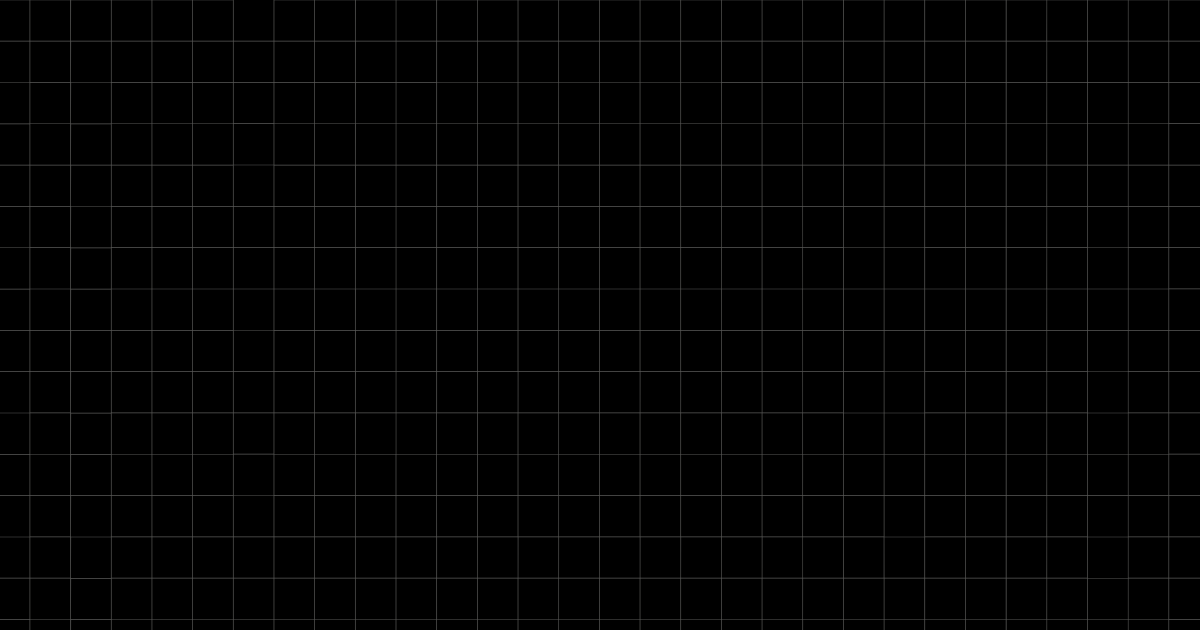
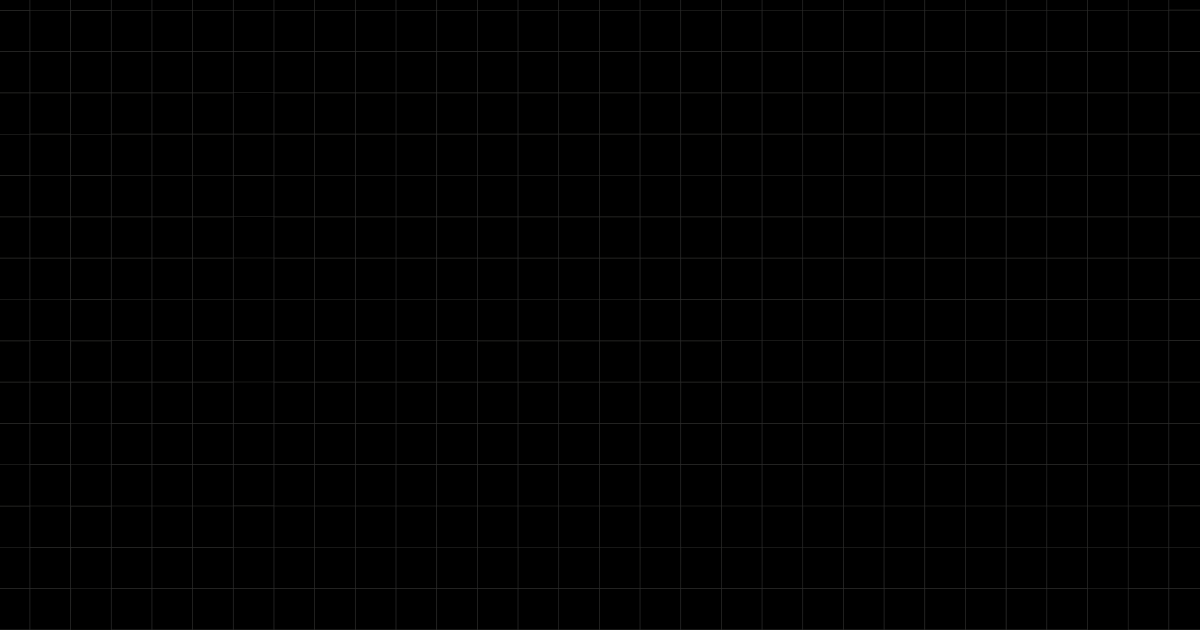
Changesnf

diff --git a/src/ContactSupport.js b/src/ContactSupport.js
@@ -33,51 +33,48 @@ const ContactSupport = () => {
 
       {/* SVG Animation Section */}
       <section className="svg-animation">
-        <svg xmlns="http://www.w3.org/2000/svg" viewBox="0 0 400 300">
-          <defs>
+    <svg xmlns="http://www.w3.org/2000/svg" viewBox="0 0 400 300">
+        <defs>
             <linearGradient id="grad1" x1="0%" y1="0%" x2="100%" y2="100%">
-              <stop offset="0%" style={{ stopColor: '#00ffcc', stopOpacity: 1 }} />
-              <stop offset="100%" style={{ stopColor: '#00cc99', stopOpacity: 1 }} />
+                <stop offset="0%" style={{ stopColor: '#ffffff', stopOpacity: 0.8 }} />
+                <stop offset="100%" style={{ stopColor: '#ffffff', stopOpacity: 0.3 }} />
             </linearGradient>
-          </defs>
-          
-          {/* Background */}
-          <rect width="400" height="300" fill="#000000" />
-          
-          {/* Abstract shapes */}
-          <circle cx="200" cy="150" r="100" fill="none" stroke="url(#grad1)" strokeWidth="4">
+        </defs>
+    
+        {/* Abstract shapes */}
+        <circle cx="200" cy="150" r="100" fill="none" stroke="url(#grad1)" strokeWidth="4">
             <animate attributeName="r" values="100;110;100" dur="4s" repeatCount="indefinite" />
-          </circle>
-          
-          <path d="M200,50 Q230,150 200,250 T200,50" fill="none" stroke="#00ffcc" strokeWidth="3">
+        </circle>
+        
+        <path d="M200,50 Q230,150 200,250 T200,50" fill="none" stroke="#ffffff" strokeWidth="3">
             <animate attributeName="d" values="M200,50 Q230,150 200,250 T200,50;M200,50 Q170,150 200,250 T200,50;M200,50 Q230,150 200,250 T200,50" dur="6s" repeatCount="indefinite" />
-          </path>
-          
-          {/* Communication symbols */}
-          <g transform="translate(150, 130)">
-            <rect x="0" y="0" width="40" height="30" rx="5" fill="#00ffcc">
-              <animate attributeName="opacity" values="1;0.5;1" dur="2s" repeatCount="indefinite" />
+        </path>
+        
+        {/* Communication symbols */}
+        <g transform="translate(150, 130)">
+            <rect x="0" y="0" width="40" height="30" rx="5" fill="#ffffff">
+                <animate attributeName="opacity" values="1;0.5;1" dur="2s" repeatCount="indefinite" />
             </rect>
-            <polyline points="0,0 20,15 40,0" fill="none" stroke="#050505" strokeWidth="2" />
-          </g>
-          
-          <g transform="translate(210, 140)">
-            <circle cx="15" cy="15" r="15" fill="#00cc99">
-              <animate attributeName="r" values="15;18;15" dur="2s" repeatCount="indefinite" />
+            <polyline points="0,0 20,15 40,0" fill="none" stroke="#212121" strokeWidth="2" />
+        </g>
+        
+        <g transform="translate(210, 140)">
+            <circle cx="15" cy="15" r="15" fill="#ffffff">
+                <animate attributeName="r" values="15;18;15" dur="2s" repeatCount="indefinite" />
             </circle>
-            <path d="M15,8 Q8,15 15,22 T15,8" fill="none" stroke="#050505" strokeWidth="2" />
-          </g>
-          
-          {/* Connecting lines */}
-          <line x1="100" y1="150" x2="300" y2="150" stroke="#00ffcc" strokeWidth="1" strokeDasharray="5,5">
+            <path d="M15,8 Q8,15 15,22 T15,8" fill="none" stroke="#212121" strokeWidth="2" />
+        </g>
+        
+        {/* Connecting lines */}
+        <line x1="100" y1="150" x2="300" y2="150" stroke="#ffffff" strokeWidth="1" strokeDasharray="5,5">
             <animate attributeName="stroke-dashoffset" values="0;100" dur="10s" repeatCount="indefinite" />
-          </line>
-          
-          <line x1="200" y1="50" x2="200" y2="250" stroke="#00cc99" strokeWidth="1" strokeDasharray="5,5">
+        </line>
+        
+        <line x1="200" y1="50" x2="200" y2="250" stroke="#ffffff" strokeWidth="1" strokeDasharray="5,5">
             <animate attributeName="stroke-dashoffset" values="0;100" dur="10s" repeatCount="indefinite" />
-          </line>
-        </svg>
-      </section>
+        </line>
+    </svg>
+</section>
 
       <section className="product-options">
         <h2>Select a Product</h2>

diff --git a/src/Footer.js b/src/Footer.js
@@ -1,39 +1,3 @@
-// // src/Footer.js
-// import React from 'react';
-// import './Footer.css'; 
-// import Logo from './logo.svg'; 
-// import '@fortawesome/fontawesome-free/css/all.min.css'; 
-
-// const Footer = () => {
-//   return (
-//     <footer className="footer">
-//       <div className="footer-content">
-//         {/* Logo Section */}
-//         <div className="footer-logo-section">
-//           <img src={Logo} alt="Logo" className="footer-logo-img" />
-//           <p className="footer-description">
-//             Redefining the AI experience with innovative technology and cutting-edge solutions.
-//           </p>
-//         </div>
-        
-//         {/* Social Media Links */}
-//         <div className="footer-social-section">
-//           <a href="#" aria-label="Facebook"><i className="fab fa-facebook-f"></i></a>
-//           <a href="#" aria-label="Twitter"><i className="fab fa-twitter"></i></a>
-//           <a href="#" aria-label="LinkedIn"><i className="fab fa-linkedin-in"></i></a>
-//         </div>
-        
-//         {/* Copyright Section */}
-//         <div className="footer-bottom">
-//           <p>&copy; 2024 FNA.ai. All rights reserved.</p>
-//         </div>
-//       </div>
-//     </footer>
-//   );
-// };
-
-// export default Footer;
-
 import React from 'react';
 import './Footer.css'; 
 import Logo from './logo.svg'; 

diff --git a/src/Navbar.css b/src/Navbar.css
@@ -1,4 +1,3 @@
-/* General Styles */
 * {
   margin: 0;
   padding: 0;
@@ -11,7 +10,7 @@ body {
 }
 
 .navbar {
-  background-color: #000000; /* Pure black background for the navbar */
+  background-color: #000000; 
   padding: 0.5rem 1.5rem;
   display: flex;
   justify-content: space-between;
@@ -21,7 +20,7 @@ body {
   top: 0;
   left: 0;
   z-index: 1000;
-  border-bottom: 1px solid #fff;
+  border-bottom: 1px solid rgba(255, 255, 255, 0.2);
   transition: background-color 0.3s ease;
 }
 
@@ -40,8 +39,7 @@ body {
   transform: scale(1.1);
 } */
 .navbar-logo-img:hover {
-  transform: scale(1.1); /* Slight zoom on hover */
-  filter: drop-shadow(0 0 5px #00ffcc); /* Neon effect */
+  transform: scale(1.1); 
 }
 
 .navbar-logo:hover {
@@ -58,12 +56,12 @@ body {
   margin-left: 20px;
   padding: 0.5rem 1rem;
   transition: transform 0.3s ease, box-shadow 0.3s ease, border-radius 0.3s ease;
-  border-radius: 12px; /* Rounded square shape */
+  border-radius: 12px;
 }
 
 .navbar-list li:hover {
   transform: translateY(-5px);
-  box-shadow: 0 5px 15px rgba(0, 255, 153, 0.6);
+  box-shadow: 0 5px 15px rgba(255, 255, 255, 0.6);
   background-color: rgba(0, 255, 153, 0.1);
 }
 
@@ -75,7 +73,7 @@ body {
 }
 
 .navbar-list li a:hover {
-  color: #00ff99;
+  color: #ffffff;
 }
 
 /* Mobile Menu */

diff --git a/src/Footer.css b/src/Footer.css
@@ -1,6 +1,5 @@
-/* General styles */
 .footer {
-  background: linear-gradient(135deg, #1e1e28, #323248);
+  background: linear-gradient(135deg, #000000, #323248);
   color: #ffffff;
   padding: 20px;
   display: flex;
@@ -8,9 +7,9 @@
   align-items: center;
   width: 100vw;
   box-sizing: border-box;
+  border-top: 1px solid rgba(255, 255, 255, 0.2);
 }
 
-/* Footer Content */
 .footer-content {
   display: flex;
   justify-content: space-between;
